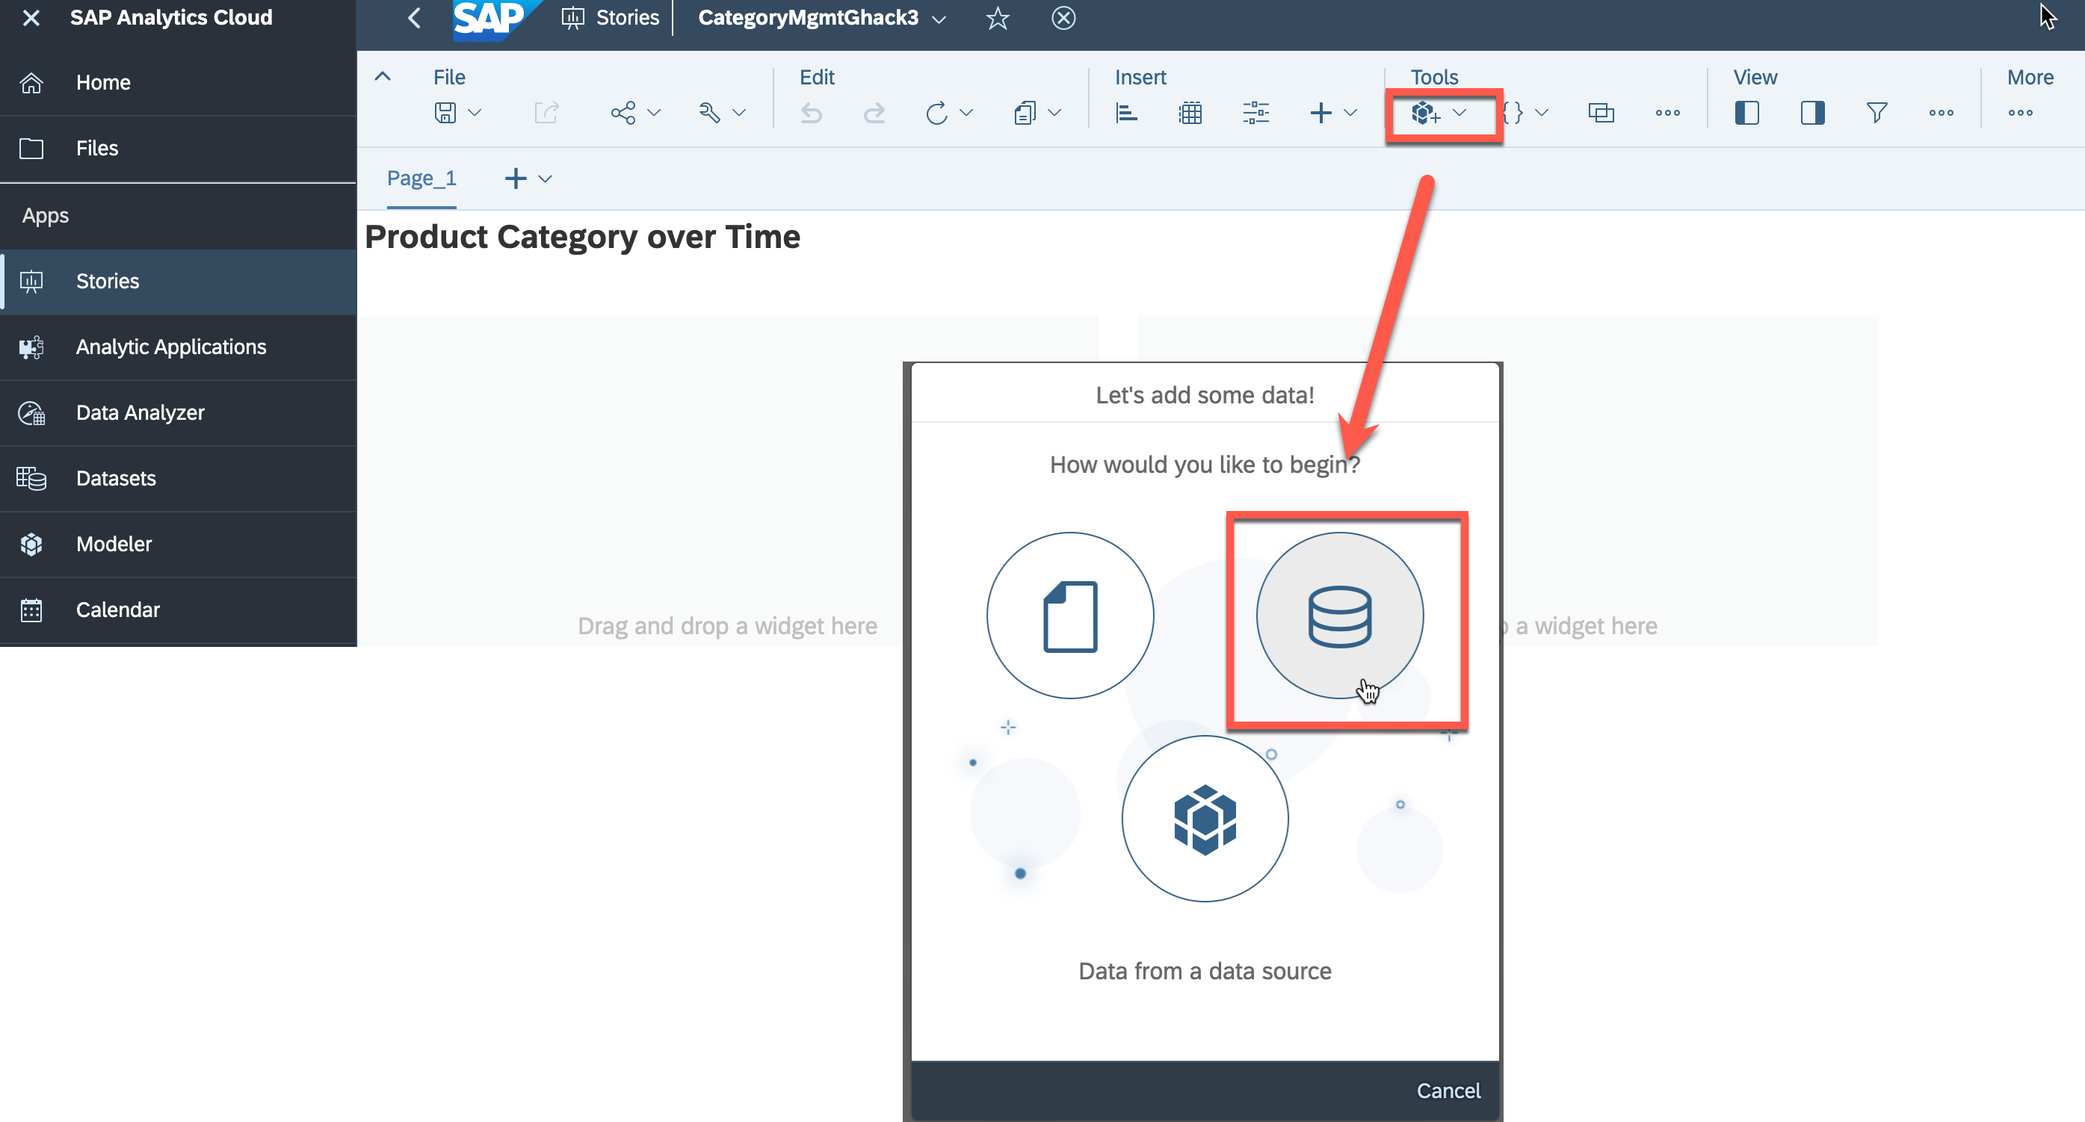
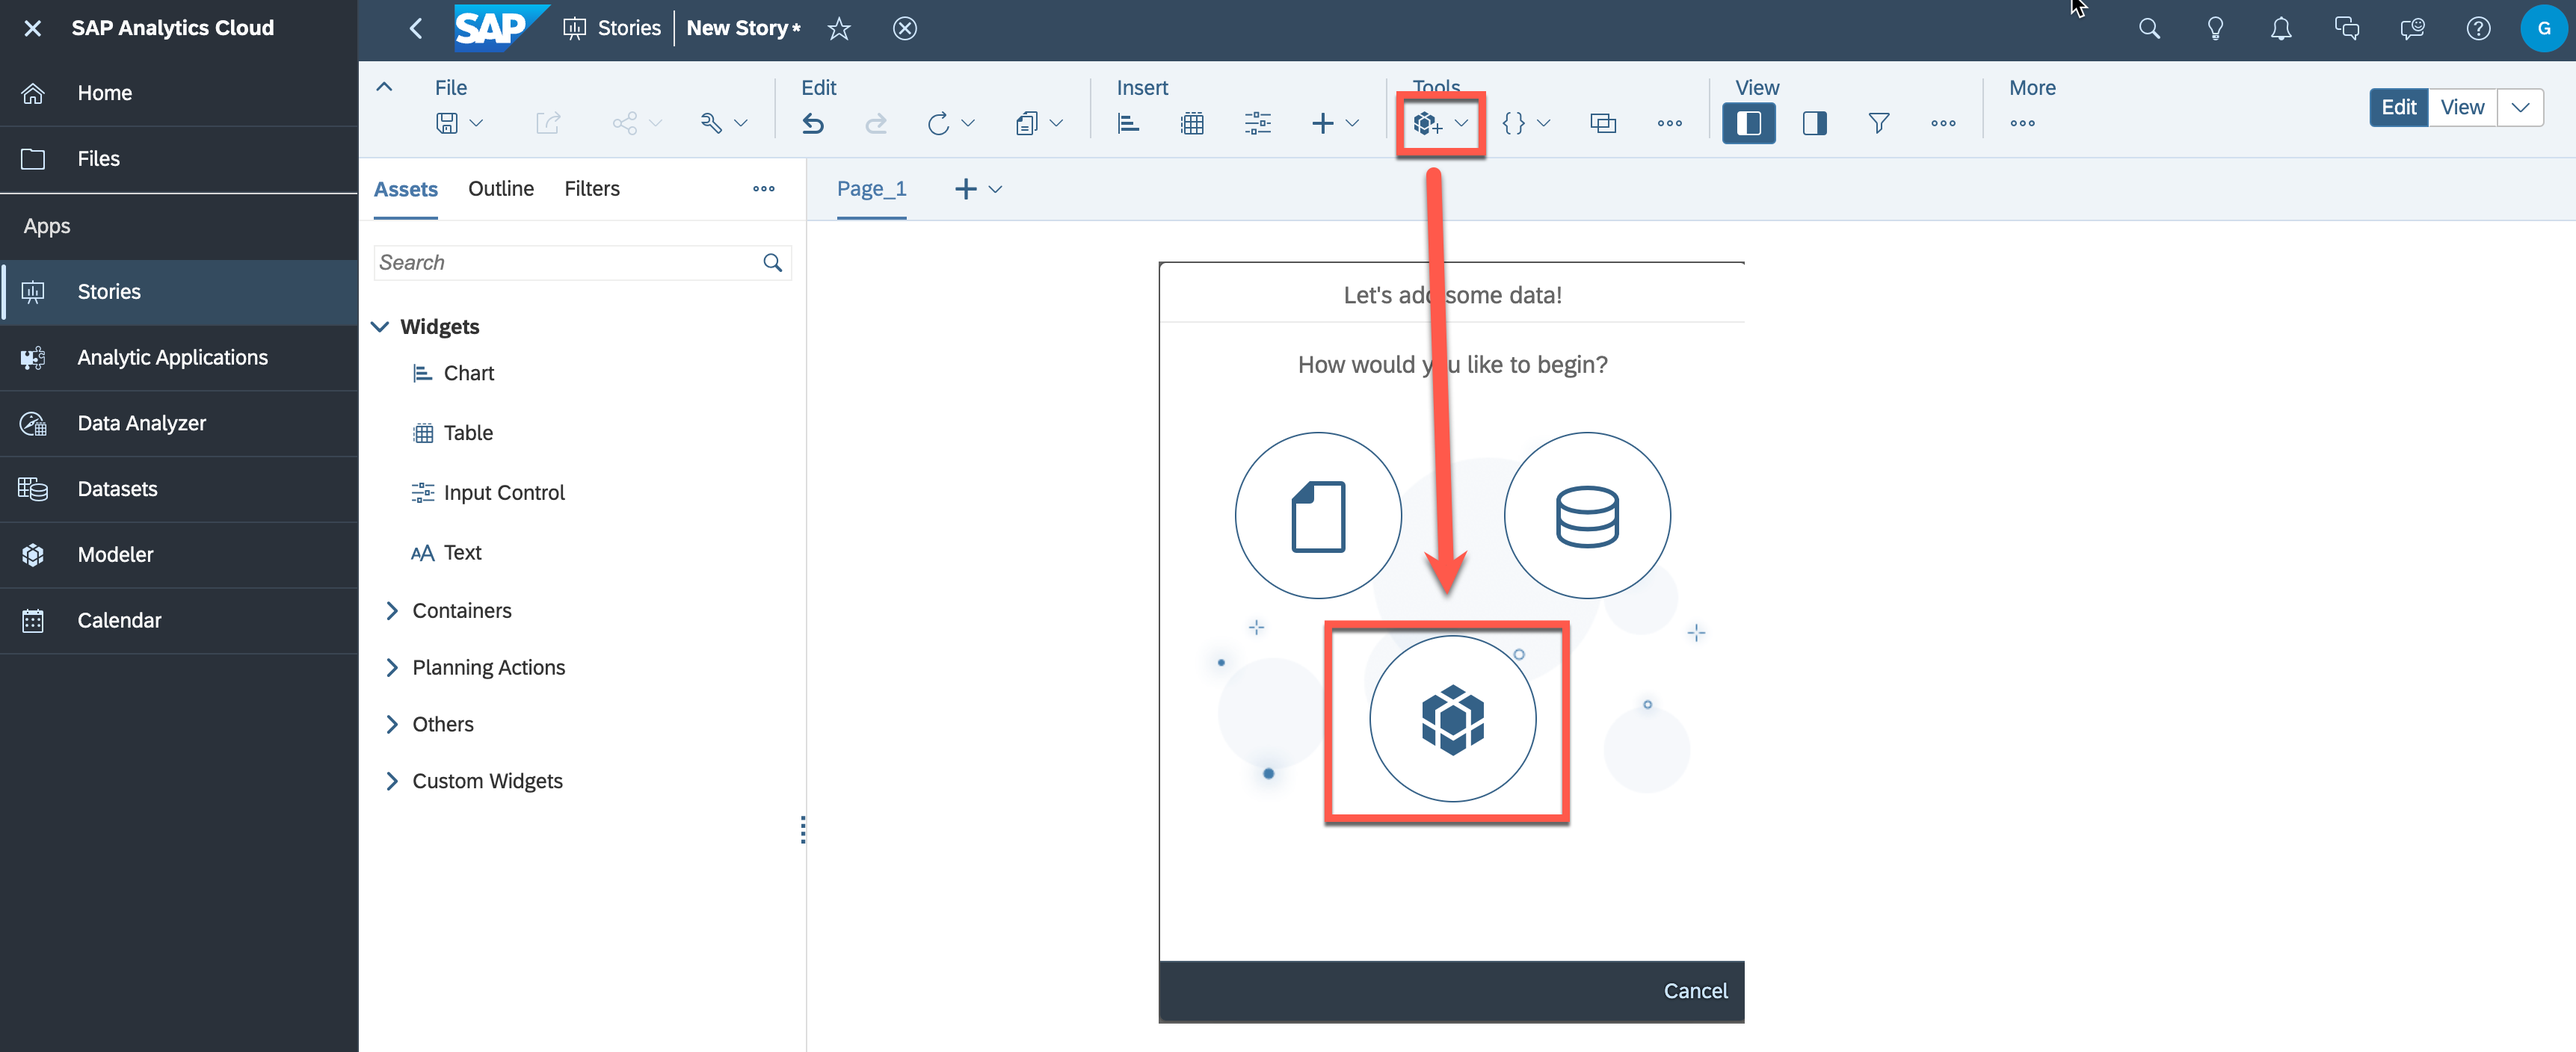
update Datasphere

diff --git a/challenges/ex3/README.md b/challenges/ex3/README.md
@@ -38,22 +38,16 @@ The challenge is to add the "Product_Sales_Country_Discount" view from SAP Datas
 <details>
   <summary>Solution</summary>
 
-1. 👉 Go to the **Tools** and press **Add new Data**, then select **Data from a data source**
+1. 👉 Go to the **Tools** and press **Add new Data**, then select **Data from an existing dataset or model**
     
     ![SAC Data](../../images/sacdata.png)
 
-
-2.  👉 Choose **SAP Datasphere** as a source from the "Connect to Live Data" section
-    
-    ![SAC Data](../../images/sacdwcdata.png)
-
-
-3.  👉 Select the connection, your space and the dataset
+2.  👉 Select the connection **SAP Datasphere** as a source, your space and the dataset
     - Connection: **PAADWC**
     - Space: **CATEGORY_MGMT_\<STUDENT>**
     - Dataset: **Product_Sales_Country_Discount**
   
-    ![SAC Data](../../images/sacdwcdataset.png)
+    ![SAC Data](../../images/select_datasphere.png)
 
 </details>
 
